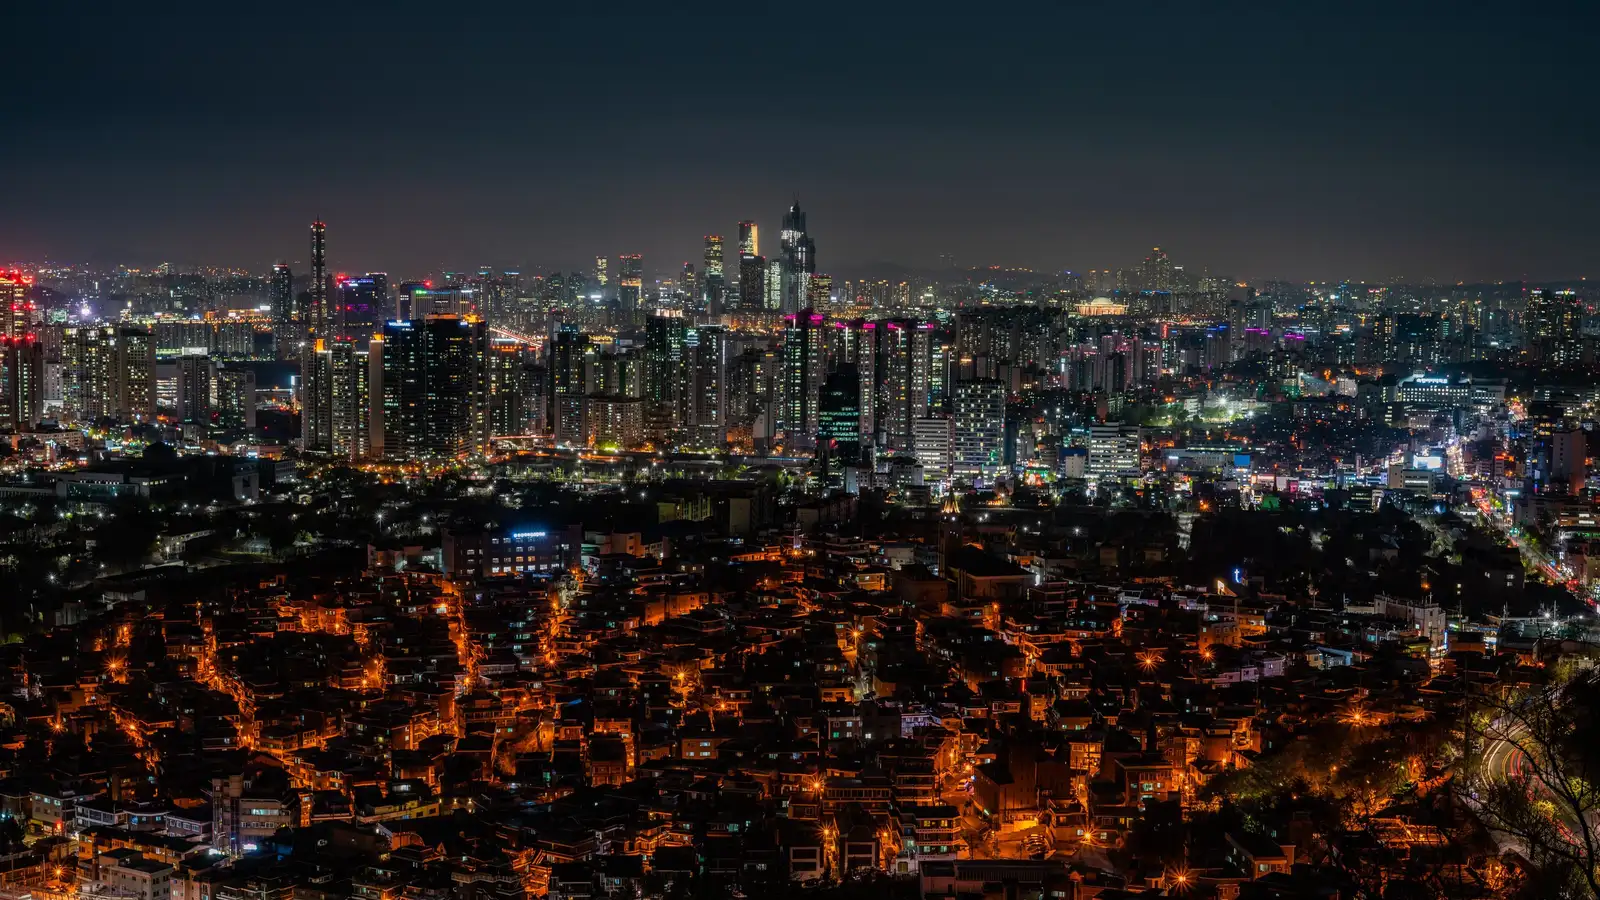
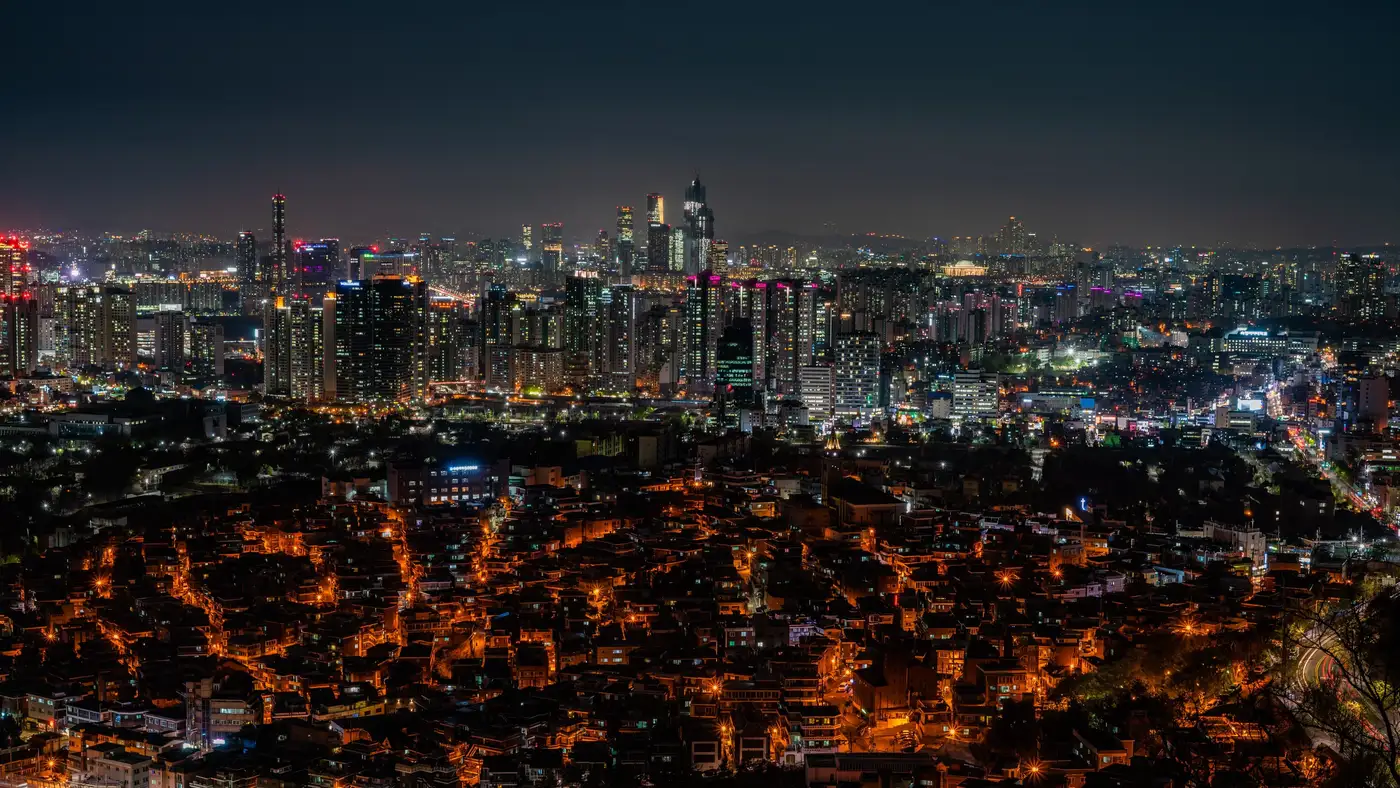
Bring 4 destination heroes under their size budget, add hosting comparison
uk/cyprus/south-korea/turkey were hitting the q60 quality floor without
reaching their 150KB budget. Shrinking pixel dimensions instead of
compressing further keeps them looking better at a smaller size.

Also adds DEPLOYMENT-OPTIONS.md comparing static export (cPanel) vs
Node runtime (Netlify) hosting, based on checking the codebase for
anything that would break under static export rather than assuming.

diff --git a/data/blurData.ts b/data/blurData.ts
@@ -27,6 +27,7 @@ export const blurData: Record<string, string> = {
[7 lines of base64/hex data omitted]

diff --git a/IMAGES-NEEDED.md b/IMAGES-NEEDED.md
@@ -55,17 +55,17 @@ budget is about the source file, not what the visitor downloads.
 
 | ✓ | File | Size | Max | Search query | What makes a good pick |
 |---|---|---|---|---|---|
-| ✅ | `/images/hero/main-hero.jpg` | 1920×1080 | 250 KB | `diverse international students walking university campus` | Diverse students on campus, daylight, not stock-posed. Left third clear for the headline. |
-| ✅ | `/images/hero/hero-mobile.jpg` | 1080×1350 | 200 KB | `asian students university campus together` | Portrait-safe crop of the same scene, subject centred. |
-| ✅ | `/images/about/office-team.jpg` | 1200×800 | 150 KB | `asian advisor student documents desk office` | Advice session, not a sales meeting. Documents visible. |
-| ✅ | `/images/about/counselling-session.jpg` | 1200×800 | 150 KB | `consultant meeting client laptop office asian` | One-to-one, laptop open, both people engaged. |
+| ✅ | `/images/hero/main-hero.jpg` | 1920×1080 | 250 KB | `happy university students group outdoors campus` | Diverse students on campus, daylight, not stock-posed. Left third clear for the headline. |
+| ✅ | `/images/hero/hero-mobile.jpg` | 1080×1350 | 200 KB | `students walking together university campus` | Portrait-safe crop of the same scene, subject centred. |
+| ✅ | `/images/about/office-team.jpg` | 1200×800 | 150 KB | `advisor explaining documents to student office` | Advice session, not a sales meeting. Documents visible. |
+| ✅ | `/images/about/counselling-session.jpg` | 1200×800 | 150 KB | `two people discussing paperwork office desk` | One-to-one, laptop open, both people engaged. |
 | ⬜ | `/images/about/office-exterior.jpg` | 1200×800 | 150 KB | `— CLIENT PHOTO, do not use stock —` | CLIENT PHOTO ONLY — the real office frontage. |
 | ✅ | `/images/sections/students-group.jpg` | 1200×800 | 150 KB | `diverse students studying together library campus` | Collaborative and relaxed. |
-| ✅ | `/images/sections/graduation.jpg` | 1200×800 | 150 KB | `graduation caps thrown air celebration` | Wide shot. Faces should not be individually identifiable — this sits near student stories. |
+| ✅ | `/images/sections/graduation.jpg` | 1200×800 | 150 KB | `graduates celebrating gowns university` | Wide shot. Faces should not be individually identifiable — this sits near student stories. |
 | ✅ | `/images/sections/visa-documents.jpg` | 1200×800 | 150 KB | `passport travel documents desk flat lay` | No legible names or numbers. |
 | ✅ | `/images/sections/lecture-hall.jpg` | 1200×800 | 150 KB | `university lecture hall students seated` | NO university logos, crests or branded signage in frame. |
 | ✅ | `/images/sections/airport-departure.jpg` | 1200×800 | 150 KB | `young traveller luggage airport terminal departure` | Hopeful rather than lonely in tone. |
-| ✅ | `/images/sections/ielts-study.jpg` | 1200×800 | 150 KB | `student headphones studying books desk` | No visible IELTS/PTE branding. |
+| ✅ | `/images/sections/ielts-study.jpg` | 1200×800 | 150 KB | `young adult studying laptop headphones desk` | No visible IELTS/PTE branding. |
 
 ---
 
@@ -75,9 +75,9 @@ Two per country: a wide hero and a tighter card crop.
 
 | ✓ | File | Size | Max | Search query | Note |
 |---|---|---|---|---|---|
-| ✅ | `/images/destinations/uk.jpg` | 1600×900 | 150 KB | `Big Ben and the Houses of Parliament` | Wide crop of Big Ben and the Houses of Parliament. Leave the left third clear for the headline. |
+| ✅ | `/images/destinations/uk.jpg` | 1400×788 | 150 KB | `Big Ben and the Houses of Parliament` | Wide crop of Big Ben and the Houses of Parliament. Leave the left third clear for the headline. |
 | ✅ | `/images/destinations/uk-card.jpg` | 800×600 | 80 KB | `the United Kingdom city landmark travel` | Tighter crop that still reads at 400 px wide. |
-| ✅ | `/images/destinations/cyprus.jpg` | 1600×900 | 150 KB | `Mediterranean coastline` | Wide crop of Mediterranean coastline. Leave the left third clear for the headline. |
+| ✅ | `/images/destinations/cyprus.jpg` | 1200×675 | 150 KB | `Mediterranean coastline` | Wide crop of Mediterranean coastline. Leave the left third clear for the headline. |
 | ✅ | `/images/destinations/cyprus-card.jpg` | 800×600 | 80 KB | `Cyprus city landmark travel` | Tighter crop that still reads at 400 px wide. |
 | ✅ | `/images/destinations/bulgaria.jpg` | 1600×900 | 150 KB | `Alexander Nevsky Cathedral, Sofia` | Wide crop of Alexander Nevsky Cathedral, Sofia. Leave the left third clear for the headline. |
 | ✅ | `/images/destinations/bulgaria-card.jpg` | 800×600 | 80 KB | `Bulgaria city landmark travel` | Tighter crop that still reads at 400 px wide. |
@@ -87,13 +87,13 @@ Two per country: a wide hero and a tighter card crop.
 | ✅ | `/images/destinations/lithuania-card.jpg` | 800×600 | 80 KB | `Lithuania city landmark travel` | Tighter crop that still reads at 400 px wide. |
 | ✅ | `/images/destinations/malta.jpg` | 1600×900 | 150 KB | `Valletta harbour` | Wide crop of Valletta harbour. Leave the left third clear for the headline. |
 | ✅ | `/images/destinations/malta-card.jpg` | 800×600 | 80 KB | `Malta city landmark travel` | Tighter crop that still reads at 400 px wide. |
-| ✅ | `/images/destinations/south-korea.jpg` | 1600×900 | 150 KB | `Seoul skyline` | Wide crop of Seoul skyline. Leave the left third clear for the headline. |
+| ✅ | `/images/destinations/south-korea.jpg` | 1400×788 | 150 KB | `Seoul skyline` | Wide crop of Seoul skyline. Leave the left third clear for the headline. |
 | ✅ | `/images/destinations/south-korea-card.jpg` | 800×600 | 80 KB | `South Korea city landmark travel` | Tighter crop that still reads at 400 px wide. |
 | ✅ | `/images/destinations/hungary.jpg` | 1600×900 | 150 KB | `The Hungarian Parliament, Budapest` | Wide crop of The Hungarian Parliament, Budapest. Leave the left third clear for the headline. |
 | ✅ | `/images/destinations/hungary-card.jpg` | 800×600 | 80 KB | `Hungary city landmark travel` | Tighter crop that still reads at 400 px wide. |
 | ✅ | `/images/destinations/france.jpg` | 1600×900 | 150 KB | `The Eiffel Tower, Paris` | Wide crop of The Eiffel Tower, Paris. Leave the left third clear for the headline. |
 | ✅ | `/images/destinations/france-card.jpg` | 800×600 | 80 KB | `France city landmark travel` | Tighter crop that still reads at 400 px wide. |
-| ✅ | `/images/destinations/turkey.jpg` | 1600×900 | 150 KB | `The Blue Mosque, Istanbul` | Wide crop of The Blue Mosque, Istanbul. Leave the left third clear for the headline. |
+| ✅ | `/images/destinations/turkey.jpg` | 1400×788 | 150 KB | `The Blue Mosque, Istanbul` | Wide crop of The Blue Mosque, Istanbul. Leave the left third clear for the headline. |
 | ✅ | `/images/destinations/turkey-card.jpg` | 800×600 | 80 KB | `Turkey city landmark travel` | Tighter crop that still reads at 400 px wide. |
 
 ---

diff --git a/DEPLOYMENT-OPTIONS.md b/DEPLOYMENT-OPTIONS.md
@@ -1,0 +1,128 @@
+# Deployment Options
+
+No config has been changed yet — this is a comparison to support a decision.
+Whichever option is picked, apply its config changes as a separate step.
+
+The codebase was checked directly (not assumed) for anything that would break
+under a static export. Two things matter:
+
+1. **`app/opengraph-image.tsx`** sets `export const runtime = "edge"` and, at
+   request time, does a `fetch()` back to `https://readingstudyabroad.pk` to
+   check whether the logo mark exists before drawing it. Edge runtime and
+   request-time `fetch` both require a server. `output: 'export'` has neither
+   — Next.js refuses to build a route that sets `runtime = "edge"` when
+   `output: 'export'` is set. **This route cannot ship as-is under Option A.**
+2. Everything else is already static: every page under `app/` exports
+   `dynamic = "force-static"`, the three dynamic routes
+   (`destinations/[slug]`, `services/[slug]`, `blog/[slug]`) use
+   `generateStaticParams()`, `app/sitemap.ts` and `app/robots.ts` both compile
+   to static files, and there is no `middleware.ts`, no `app/api/*`, and no
+   use of `cookies()`/`headers()` anywhere. Forms already call Web3Forms
+   directly from the browser (`lib/submitForm.ts`) — they never touch a
+   Next.js server, so they're identical under both options.
+
+---
+
+## Option A — Static export (WebSouls or any shared cPanel hosting)
+
+**What changes in `next.config.js`:**
+
+```js
+const nextConfig = {
+  output: "export",
+  images: {
+    unoptimized: true,   // no server to run the optimizer — see below
+    dangerouslyAllowSVG: true,
+    contentDispositionType: "attachment",
+    contentSecurityPolicy: "default-src 'self'; script-src 'none'; sandbox; style-src 'unsafe-inline';",
+  },
+};
+```
+
+**What breaks, and what has to happen instead:**
+
+- **`app/opengraph-image.tsx` must be removed or rewritten.** As it stands
+  (edge runtime + a live fetch), it will fail the export build. The practical
+  fix is to replace it with one static PNG generated once and referenced from
+  `lib/seo.ts` — same visual result, just not regenerated per-page. This is a
+  real code change, not a config flag; budget ~30 minutes for it before
+  exporting.
+- **`next/image` optimization stops.** `unoptimized: true` means the browser
+  gets exactly the file that's in `/public/images` — no automatic AVIF/WebP
+  re-encoding, no responsive resizing per device. This is exactly why the
+  destination-hero size-budget work in this session mattered: every
+  photographic slot is already a hand-sized WebP under its KB budget
+  (150KB/80KB), so visitors get a reasonably small file regardless. `sizes`
+  and `fill` still work for layout; they just don't trigger server-side
+  resizing.
+- **Anything dynamic still won't work** — but there isn't anything dynamic
+  left in this codebase to worry about (see the check above).
+
+**What stays exactly the same:**
+
+- Forms — Web3Forms is called from the browser with `fetch()`, no Next.js
+  server involved either way.
+- All copy, layout, animations, `isReady()` content-hiding logic — none of
+  this touches the server.
+
+**Build command and output:**
+
+```bash
+npm run build
+```
+
+With `output: "export"` set, this produces static HTML/CSS/JS in **`out/`**
+instead of `.next/`. `next start` no longer applies — there is no server to
+run.
+
+**Uploading to cPanel:**
+
+1. Run `npm run build` locally (or in a CI step) with `output: "export"` set.
+2. Zip the contents of `out/` (not the folder itself — its contents).
+3. In cPanel → File Manager, upload and extract into `public_html/` (or the
+   subfolder mapped to the domain).
+4. Confirm `.htaccess` isn't needed for routing — Next's static export writes
+   real `.html` files per route (e.g. `destinations/turkey.html` alongside a
+   `destinations/turkey/` redirect setup), which plain Apache serves natively.
+5. Point the domain's DNS/nameservers at the WebSouls hosting if not already
+   done; no Node.js app needs to be configured in cPanel — this is a plain
+   static site.
+
+---
+
+## Option B — Node.js runtime (Netlify free tier)
+
+**What changes:** nothing in `next.config.js`. The current config (server
+rendering + `next/image` optimization + the edge-runtime OG route) works as-is
+— Netlify runs Next.js through its own adapter (`@netlify/plugin-nextjs`,
+installed automatically when Netlify detects a Next.js project).
+
+**Netlify settings:**
+
+- Build command: `npm run build`
+- Publish directory: leave as Netlify's Next.js plugin default (it manages
+  this itself — do not point it at `.next` manually)
+- Connect the GitHub repo directly (`FarrukhFlutter12/Reading-Study-Abroad-Consultancy-website`)
+  so every push to `main` redeploys automatically
+- No environment variables are required for the build itself, but
+  `NEXT_PUBLIC_WEB3FORMS_KEY` must be set in Netlify's site settings
+  (Site configuration → Environment variables) **before the first deploy** —
+  this value gets baked into the client bundle at build time, so adding it
+  later requires a redeploy, not just a settings save.
+- The edge-runtime OG image route works unmodified — Netlify supports Next.js
+  edge functions natively.
+
+**Trade-off vs Option A:** Netlify's free tier has bandwidth/build-minute
+caps that a shared cPanel plan doesn't. For a low-traffic lead-gen site
+neither is likely to bind in practice, but it's the one caveat worth knowing
+before choosing "free forever" over "the hosting WebSouls already sells."
+
+---
+
+## Recommendation
+
+If WebSouls hosting is already paid for or preferred for support reasons,
+Option A is fine — the codebase has almost nothing that depends on a server;
+the only real work is swapping the OG image route for a static PNG. If there's
+no reason to prefer cPanel specifically, Option B ships today with zero code
+changes.
